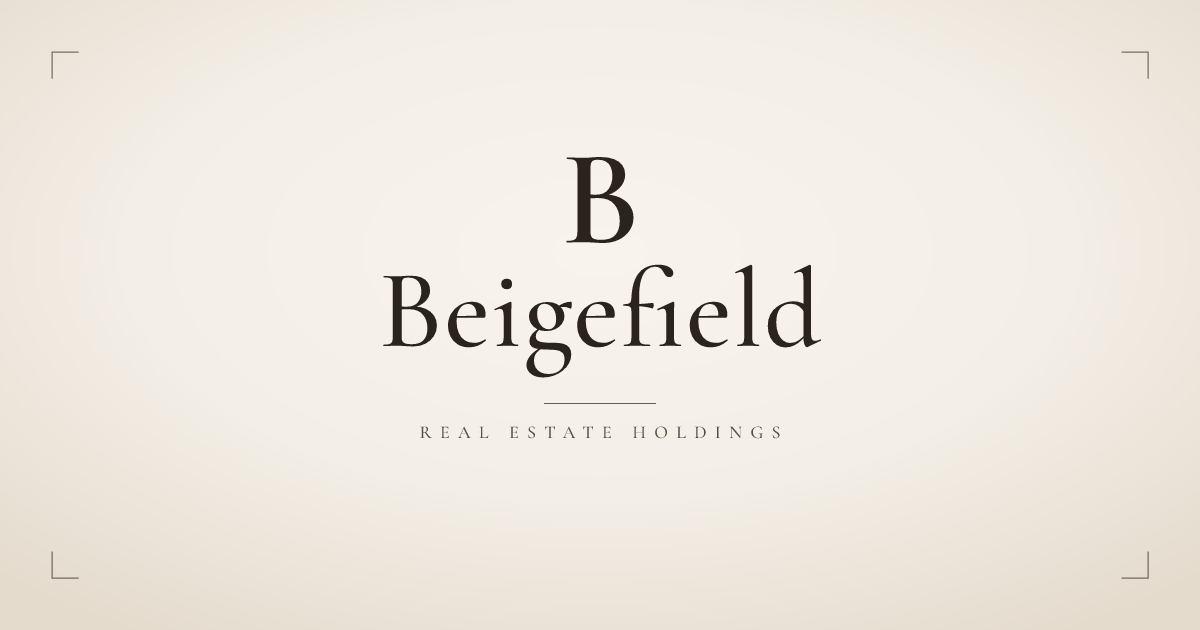
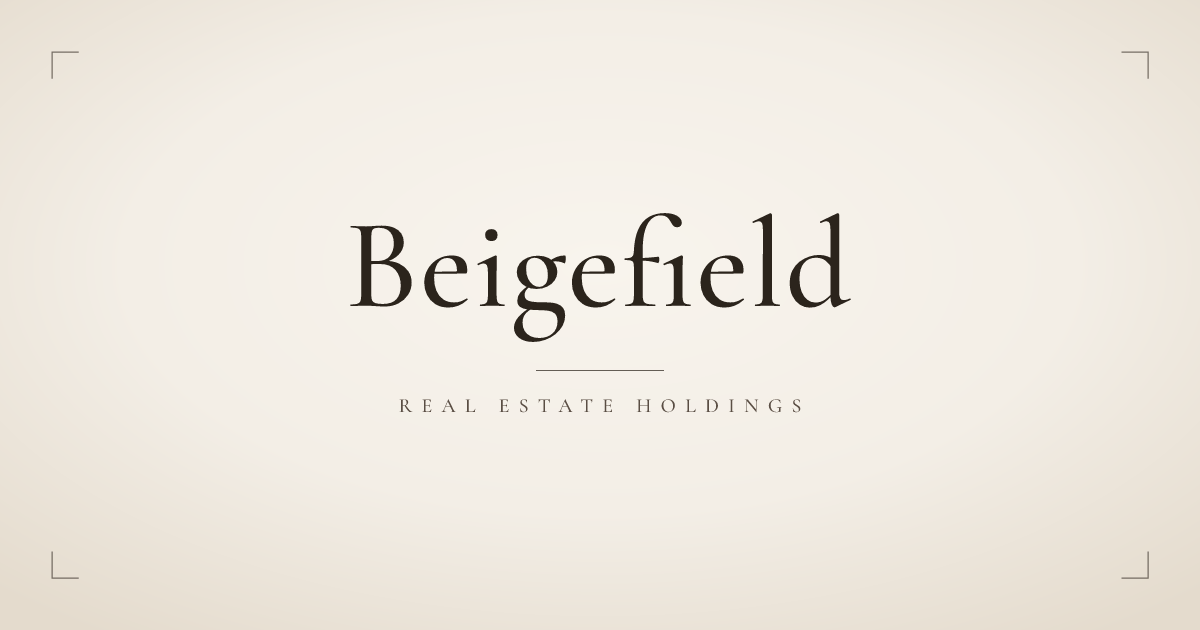
Remove the B monogram from the homepage and share image
Keep the wordmark and subtitle centered on their own. The browser icon is unchanged.

Changed region(s): [[0.2775, 0.2413, 0.7092, 0.6032], [0.4317, 0.6333, 0.6783, 0.6937], [0.3392, 0.6333, 0.4008, 0.6937]]

diff --git a/app/page.tsx b/app/page.tsx
@@ -1,5 +1,3 @@
-import { Monogram } from "@/components/monogram";
-
 export default function Home() {
   return (
     <div className="page">
@@ -10,7 +8,6 @@ export default function Home() {
         <span className="corner corner-br" />
       </div>
       <main className="lockup">
-        <Monogram className="mark" />
         <h1>Beigefield</h1>
         <span className="rule" aria-hidden="true" />
         <p>Real Estate Holdings</p>

diff --git a/app/globals.css b/app/globals.css
@@ -116,14 +116,8 @@ body {
   animation: rise 1.25s cubic-bezier(0.22, 1, 0.36, 1) both;
 }
 
-.mark {
-  width: clamp(2.85rem, 6.5vw, 5.25rem);
-  height: auto;
-  color: var(--ink);
-}
-
 .lockup h1 {
-  margin: clamp(1.35rem, 2.6vw, 2.05rem) 0 0;
+  margin: 0;
   font-family: var(--font-serif);
   font-size: clamp(3.35rem, 7.5vw, 7.75rem);
   font-weight: 500;
